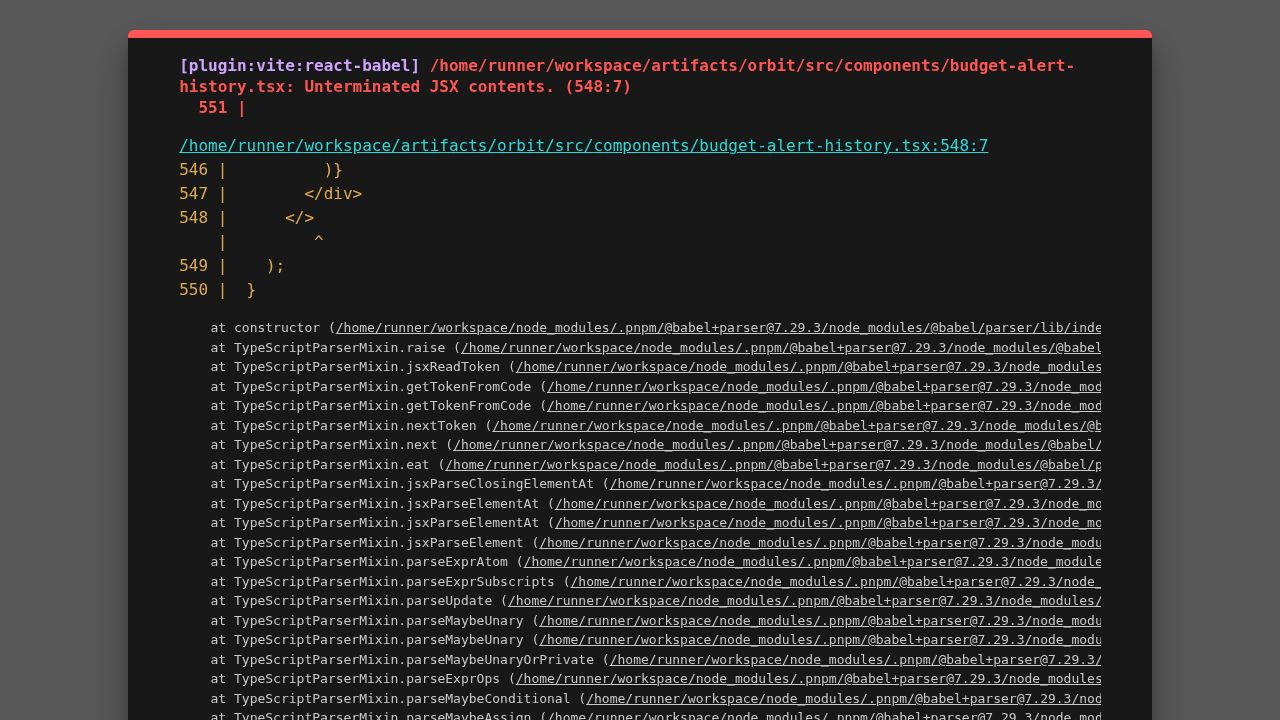
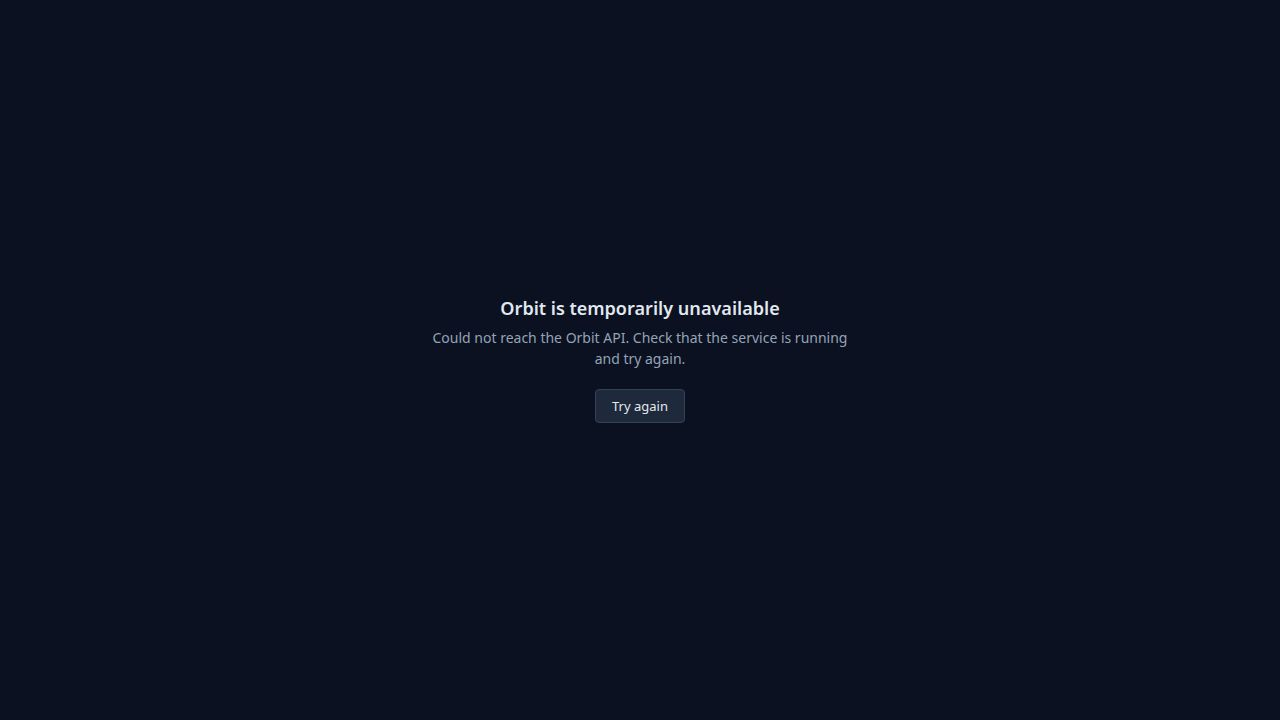
feat: show each app's % share of total spend in Budget Status table (task-432)
In the BudgetSummaryWidget table on the home page, each app row's
Spent MTD cell now shows a small "X% of total" sub-label beneath the
spend figure. This makes it immediately clear which app is dominating
the portfolio budget without requiring any additional navigation.

Implementation details:
- Added a flex-col wrapper around the spend figure in the Spent MTD <td>
- Sub-label: Math.round(app.monthToDateCost / totalSpentMTD * 100) + "% of total"
- Guard: only rendered when filteredApps.length >= 2 AND totalSpentMTD > 0
  (single-app scope or zero spend → indicator is hidden, matching spec)
- Uses the already-computed totalSpentMTD accumulator; no new state or API calls
- Styled as text-[10px] text-muted-foreground to remain visually subordinate
  to the primary spend figure

No new dependencies. Typecheck passes (pre-existing network.tsx TS2322
error is unrelated to this change and existed before it).

Files changed:
- artifacts/orbit/src/pages/home.tsx — Spent MTD cell in filteredApps.map

Replit-Task-Id: 1020a335-72a3-4201-a267-37dce4781d78

diff --git a/artifacts/orbit/src/pages/home.tsx b/artifacts/orbit/src/pages/home.tsx
@@ -847,7 +847,14 @@ function BudgetSummaryWidget({
                             </Tooltip>
                           </TooltipProvider>
                         )}
-                        {fmt(app.monthToDateCost)}
+                        <div className="flex flex-col items-end gap-0.5">
+                          {fmt(app.monthToDateCost)}
+                          {filteredApps.length >= 2 && totalSpentMTD > 0 && (
+                            <span className="text-[10px] text-muted-foreground tabular-nums">
+                              {Math.round((app.monthToDateCost / totalSpentMTD) * 100)}% of total
+                            </span>
+                          )}
+                        </div>
                       </div>
                     </td>
                     <td className="px-3 py-2.5 text-right tabular-nums text-muted-foreground">